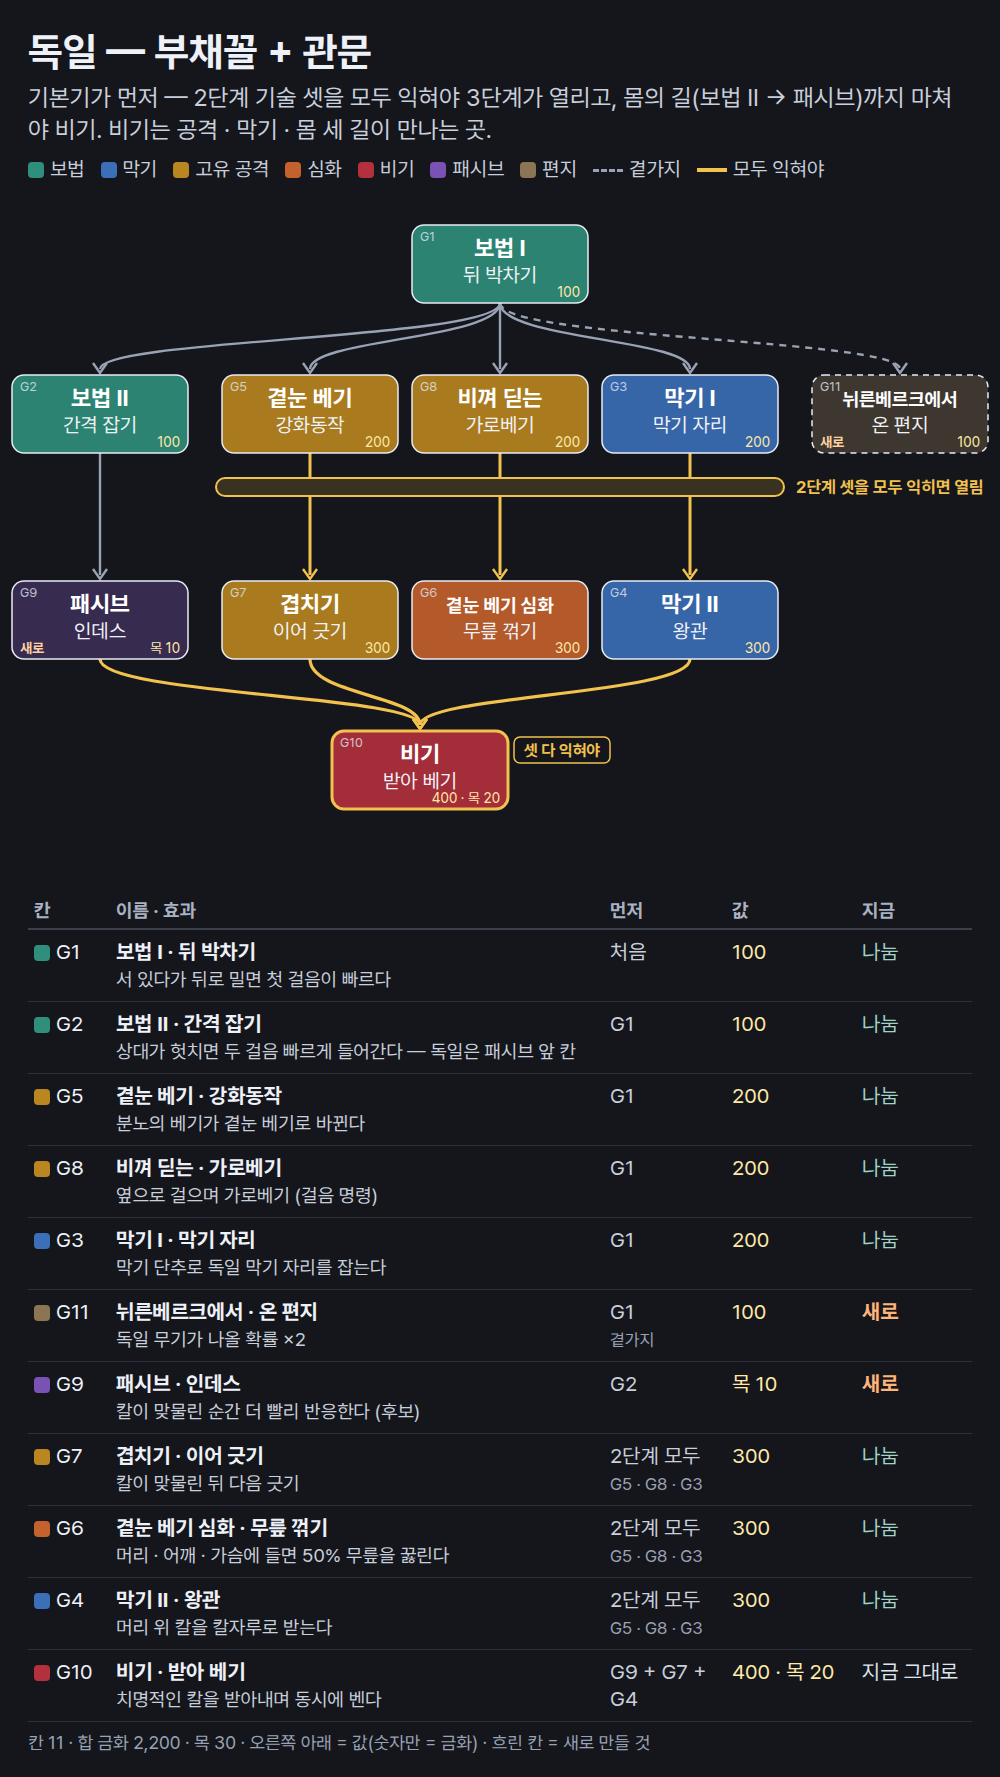
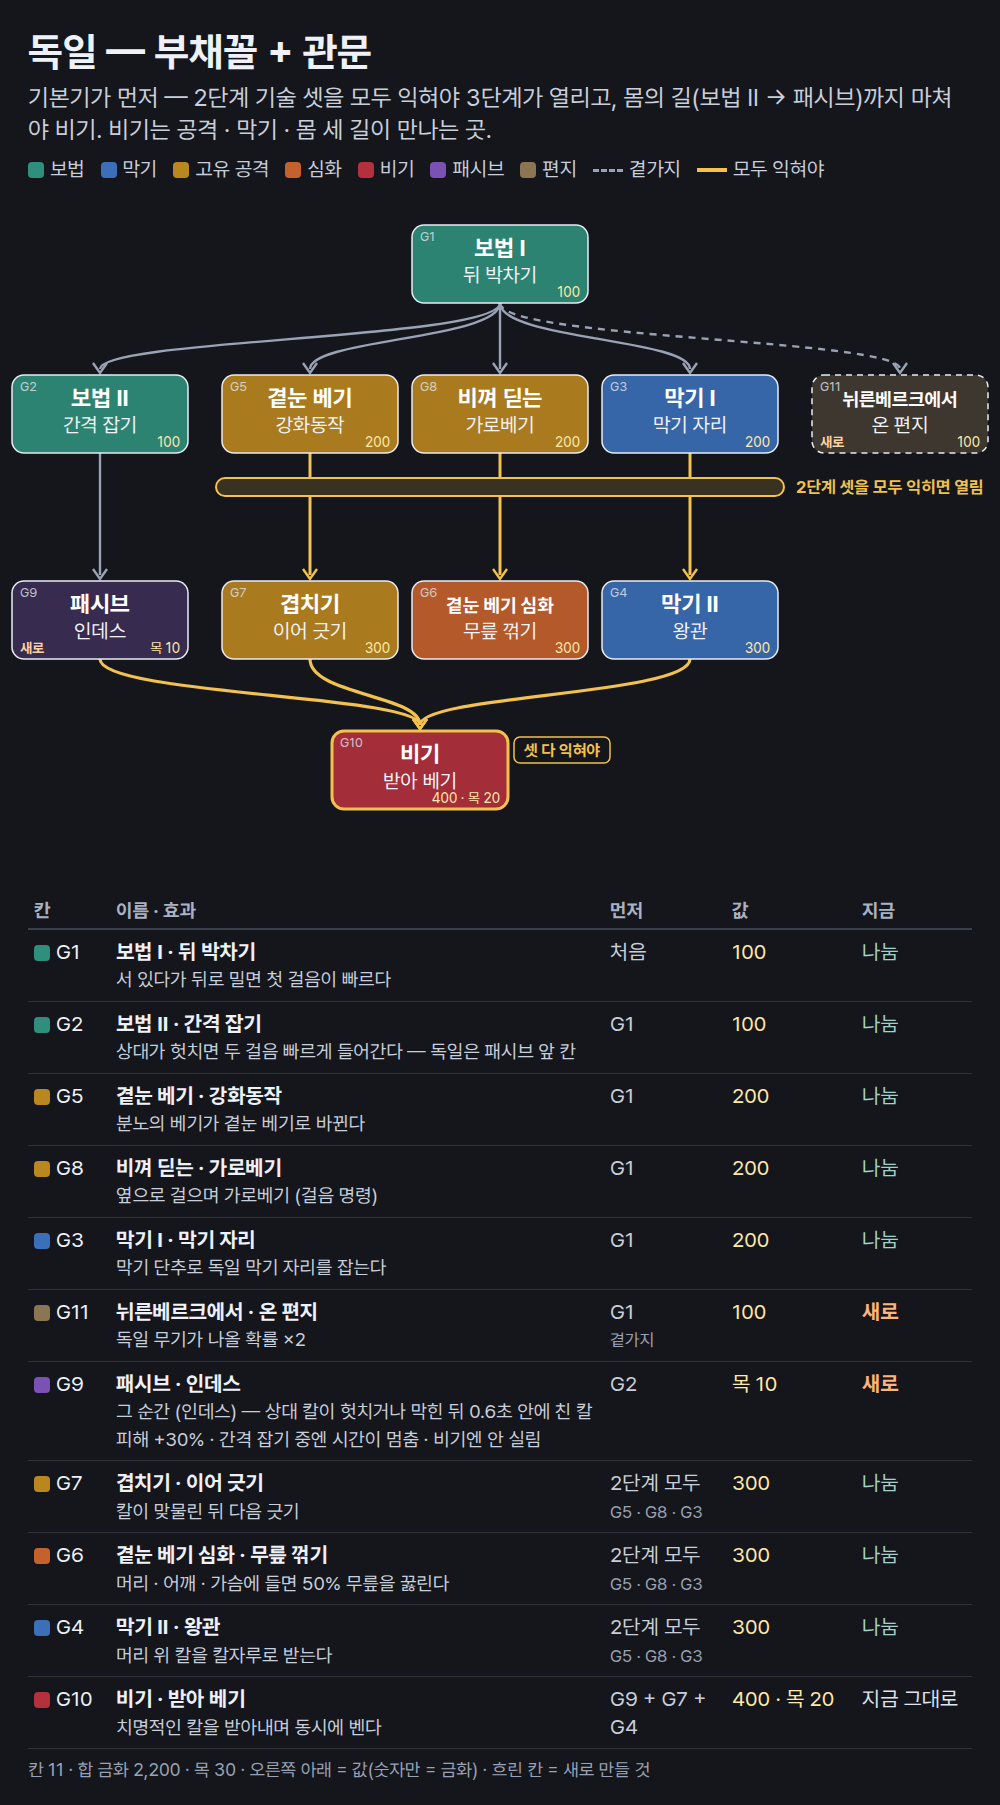
스킬트리: 독일 인데스 · 동방 숨 바꾸기 (토납) 효과 반영 · 결정 기록 (사장님 10/21 20:xx '토납으로 해')
Claude-Session: https://claude.ai/code/session_014nJCzE4hyxiYc9innhSUng

diff --git a/docs/decisions.md b/docs/decisions.md
@@ -1293,3 +1293,4 @@
 - 19:1x "이베리아는 패시브를 익혀야 비기를 배울 수 있게 해. 이렇게 확정하자" → 이베리아 비기 = 손목 힘 + 둥근 걸음 탈류 + 이어 긋기 흐름 · 스킬트리 확정(docs/design/skill_tree_2026-10-21/ — 패시브 효과 · 나머지 칸 값은 가안)
 - 19:2x "켄타이, 리네아 레타, 검결로 해" → 패시브 이름: 이탈리아 곧은 선 (리네아 레타) · 일본 기다림과 침 (켄타이) · 동방 칼의 요결 (검결) — 트리 그림 · data.mjs 반영(효과 값은 가안 — 사장님 확인 전)
 - 20:xx "칼을 휘두르지 않는 동안 피가 2배 빨리 멎는 걸로 해" → 동방 패시브 = 휘두르지 않는 동안 피 굳는 빠르기 × 2(VITALS.clotting 0.12 → 0.24 — 이름은 정하는 중) · 검결(기다림 없이 자세로)은 넣지 않음. "인데스는 네 제안대로 해" → 독일 인데스 = 상대 공격이 헛치거나 내 칼에 막힌 뒤 0.6 s 안에 시작한 칼 피해 + 30 % · 간격 잡기 중에는 시간이 멈추고 잡기가 풀릴 때 닫힘 · 비기 제외 · 자세 칸 알림(막기 표시보다 앞). 네 패시브(리네아 레타 · 켄타이 · 인데스 · 동방) 작업자에게 맡김.
+- 20:xx "토납으로 해" → 동방 패시브 이름 숨 바꾸기 (토납)(『장자』 각의편 吐故納新) · 트리 그림 · data.mjs 반영. "알림 구현은 저런 방식으로 인간이 인지할 수 없어 … 화면 테두리가 붉어지는 것처럼 … 아니면 머리 위에 투명도를 가진 작은 느낌표" → 칠 때 알림 새로: 상대 머리 위 반투명 '!'(기본) · 화면 테두리 옅은 금빛(시험 스위치 `?strikeCue=mark|edge|both|0`) · 이어 긋기 · 인데스 · 비기 창(금색) — 작업자에게 맡김. 자세 칸 글은 그대로 둠.

diff --git a/docs/design/skill_tree_2026-10-21/README.md b/docs/design/skill_tree_2026-10-21/README.md
@@ -36,7 +36,7 @@
 - 값 (사장님 19:0x '00에서 온 편지는 금화 100으로. 패시브는 금화 소모 없이 목 10개로. 보법 심화는 금 100으로. 비기는 금화 400과 목 20개로'): 편지 금화 100 · 패시브 목 10(금화 없음) · 보법 II 금화 100 · 비기 금화 400 + 목 20 · 나머지는 깊이마다 금화 100 · 200 · 300 · 400(가안). 목 = 여정에서 상대 목을 베어 얻는 돈(lobby_progress.js awardHead — 스킬북 BOOK_HEAD_PRICE 자리).
 - 이미 산 책은 나눈 칸으로 옮긴다: 1급 보법 → 보법 I · II · 2급 막기 → 막기 칸 전부 · 3급 고유자세 → 고유 공격 · 심화 칸 전부 · 4급 패시브 → 패시브 · 5급 비기 → 비기(앞 칸이 없어도 열림).
 - AI 는 그대로(숙련도). 사람만 트리.
-- 새로 만들 것: 패시브 넷(독일 인데스 · 이탈리아 리네아 레타 · 일본 켄타이 · 동방 검결 — 효과는 후보 · 10/21 19:2x 이름 확정) · 일본 코테 심화(이점 미정 — 확인표 2107) · 편지 다섯 · 뽑기 규칙 · 대기실 판(지금 별자리 다섯 칸 → 트리 11 칸).
+- 새로 만들 것: 패시브 넷(독일 인데스 · 이탈리아 리네아 레타 · 일본 켄타이 · 동방 토납 — 10/21 효과 확정 · 동방은 20:xx 검결 → 토납) · 일본 코테 심화(이점 미정 — 확인표 2107) · 편지 다섯 · 뽑기 규칙 · 대기실 판(지금 별자리 다섯 칸 → 트리 11 칸).
 
 ## 비기까지 최소 값 (19:0x 값으로 다시 셈)
 
